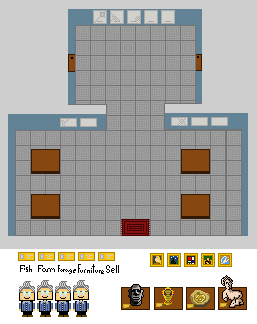
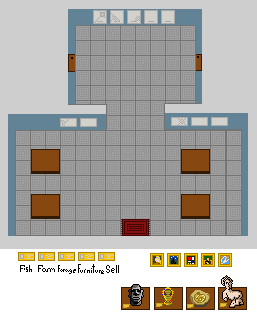
Prepare for the Museum & Curator

Changed region(s): [[0.0623, 0.8642, 0.3735, 0.9877]]

diff --git a/src/entities/npcs/Curator.js b/src/entities/npcs/Curator.js
@@ -1,0 +1,26 @@
+import NPC from './NPC.js'
+import CuratorAnimations from '../../globals/CuratorAnimations.js'
+import Animation from '../../components/Animation.js'
+
+export default class Curator extends NPC {
+  constructor (config) {
+    super(config)
+  }
+
+  buildAnimations () {
+    const animationKeys = Object.keys(CuratorAnimations)
+    animationKeys.forEach((key, index) => {
+      const config = Object.assign({}, CuratorAnimations[key])
+      config.owner = this
+      config.game = this.game
+      config.imageManager = this.imageManager
+      config.imageSrc = CuratorAnimations[key].spritesheet
+      config.canvas = this.imageManager.getImageWithSrc(CuratorAnimations[key].spritesheet)
+      this.animations[key] = new Animation(config)
+    })
+  }
+
+  getAnimation (type = 'Idle') {
+    return this.animations[type]
+  }
+}

diff --git a/src/entities/npcs/NPC.js b/src/entities/npcs/NPC.js
@@ -1,0 +1,36 @@
+import CuratorAnimations from '../../globals/CuratorAnimations.js'
+import Animation from '../../components/Animation.js'
+
+export default class NPC {
+  constructor (config) {
+    Object.assign(this, config)
+
+    this.animations = {}
+    this.currentAnimation = null // Initialize once animations are built
+  }
+
+  init () {
+    this.buildAnimations()
+
+    this.currentAnimation = this.getAnimation()
+
+    this.width = this.currentAnimation.width
+    this.height = this.currentAnimation.height
+  }
+
+  buildAnimations () {
+    // override this method in subclasses
+  }
+
+  getAnimation () {
+    // override this method in subclasses
+  }
+
+  update (deltaTime) {
+    this.currentAnimation?.update(deltaTime)
+  }
+
+  draw (camera) {
+    this.currentAnimation?.draw(this.x, this.y, camera)
+  }
+}

diff --git a/src/globals/Images.js b/src/globals/Images.js
@@ -1,5 +1,6 @@
 const Images = {
   BasePlayer: '../../img/BasePlayer - Copy.png',
+  Curator: '../../img/Curator.png',
   ForageableItems: '../../img/Forage.png',
   Museum: '../../img/Museum.png',
   ShortCrops: '../../img/ShortCrops.png',
@@ -14,6 +15,7 @@ const Images = {
 export default Images
 export const {
   BasePlayer,
+  Curator,
   ForageableItems,
   Museum,
   ShortCrops,

diff --git a/src/globals/CuratorAnimations.js b/src/globals/CuratorAnimations.js
@@ -1,0 +1,12 @@
+import { Curator } from './Images.js'
+
+export const CuratorIdle = {
+  name: 'CuratorIdle',
+  spritesheet: Curator,
+  frames: [0, 1, 2, 3],
+  frameWidth: 18,
+  frameHeight: 39,
+  padding: 1,
+  duration: 500,
+  loop: true
+}
